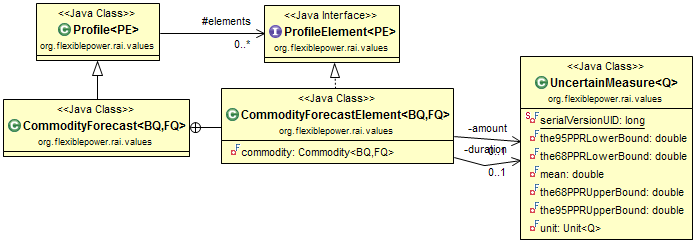
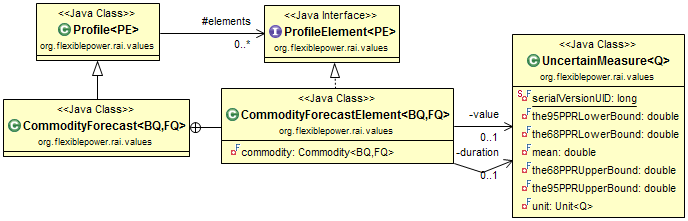
The amount attribute in the CommodityForecastElement class is renamed to value and its type is changed from BQ to FQ.

diff --git a/flexiblepower.api/src/org/flexiblepower/rai/values/CommodityForecast.java b/flexiblepower.api/src/org/flexiblepower/rai/values/CommodityForecast.java
@@ -4,7 +4,6 @@ import java.util.ArrayList;
 import java.util.List;
 
 import javax.measure.Measurable;
-import javax.measure.Measure;
 import javax.measure.quantity.Duration;
 import javax.measure.quantity.Energy;
 import javax.measure.quantity.Power;
@@ -43,7 +42,7 @@ public class CommodityForecast<BQ extends Quantity, FQ extends Quantity> extends
 
         private final List<CommodityForecastElement<BQ, FQ>> elements;
         private UncertainMeasure<Duration> duration;
-        private Unit<BQ> unit;
+        private Unit<FQ> unit;
 
         public Builder(Commodity<BQ, FQ> commodity) {
             this.commodity = commodity;
@@ -55,21 +54,21 @@ public class CommodityForecast<BQ extends Quantity, FQ extends Quantity> extends
             return this;
         }
 
-        public Builder<BQ, FQ> setUnit(Unit<BQ> unit) {
+        public Builder<BQ, FQ> setUnit(Unit<FQ> unit) {
             this.unit = unit;
             return this;
         }
 
-        public Builder<BQ, FQ> add(UncertainMeasure<Duration> duration, UncertainMeasure<BQ> amount) {
-            elements.add(new CommodityForecastElement<BQ, FQ>(commodity, duration, amount));
+        public Builder<BQ, FQ> add(UncertainMeasure<Duration> duration, UncertainMeasure<FQ> value) {
+            elements.add(new CommodityForecastElement<BQ, FQ>(commodity, duration, value));
             return this;
         }
 
-        public Builder<BQ, FQ> add(UncertainMeasure<BQ> amount) {
+        public Builder<BQ, FQ> add(UncertainMeasure<FQ> value) {
             if (duration == null) {
                 throw new IllegalStateException("duration not set");
             }
-            elements.add(new CommodityForecastElement<BQ, FQ>(commodity, duration, amount));
+            elements.add(new CommodityForecastElement<BQ, FQ>(commodity, duration, value));
             return this;
         }
 
@@ -81,7 +80,7 @@ public class CommodityForecast<BQ extends Quantity, FQ extends Quantity> extends
             }
             elements.add(new CommodityForecastElement<BQ, FQ>(commodity,
                                                               duration,
-                                                              new UncertainMeasure<BQ>(mean, standardDeviation, unit)));
+                                                              new UncertainMeasure<FQ>(mean, standardDeviation, unit)));
             return this;
         }
 
@@ -100,15 +99,15 @@ public class CommodityForecast<BQ extends Quantity, FQ extends Quantity> extends
 
         private final Commodity<BQ, FQ> commodity;
         private final UncertainMeasure<Duration> duration;
-        private final UncertainMeasure<BQ> amount;
+        private final UncertainMeasure<FQ> value;
 
         public CommodityForecastElement(Commodity<BQ, FQ> commodity,
                                         UncertainMeasure<Duration> duration,
-                                        UncertainMeasure<BQ> amount) {
+                                        UncertainMeasure<FQ> value) {
             super();
             this.commodity = commodity;
             this.duration = duration;
-            this.amount = amount;
+            this.value = value;
         }
 
         @Override
@@ -126,18 +125,8 @@ public class CommodityForecast<BQ extends Quantity, FQ extends Quantity> extends
             return commodity;
         }
 
-        public UncertainMeasure<BQ> getAmount() {
-            return amount;
-        }
-
-        public Measure<Double, BQ> getExpectedAmount() {
-            return amount.getMean();
-        }
-
-        public Measure<Double, FQ> getExpectedAverage() {
-            double expected = commodity.average(getExpectedAmount(), getDuration())
-                                       .doubleValue(commodity.getFlowUnit());
-            return Measure.valueOf(expected, commodity.getFlowUnit());
+        public UncertainMeasure<FQ> getValue() {
+            return value;
         }
 
         public UncertainMeasure<Duration> getUncertainDuration() {
@@ -176,34 +165,21 @@ public class CommodityForecast<BQ extends Quantity, FQ extends Quantity> extends
         }
         Builder<BQ, FQ> builder = CommodityForecast.create(this.getCommodity());
         for (CommodityForecastElement<BQ, FQ> e : elements) {
-            builder.add(e.getUncertainDuration(), e.getAmount());
+            builder.add(e.getUncertainDuration(), e.getValue());
         }
         for (CommodityForecastElement<BQ, FQ> e : that.elements) {
-            builder.add(e.getUncertainDuration(), e.getAmount());
+            builder.add(e.getUncertainDuration(), e.getValue());
         }
         return builder.build();
     }
 
-    public UncertainMeasure<BQ> getAmountAtOffset(Measurable<Duration> offset) {
+    public UncertainMeasure<FQ> getValueAtOffset(Measurable<Duration> offset) {
         long targetOffset = offset.longValue(SI.MILLI(SI.SECOND));
         long currentOffset = 0;
         for (CommodityForecastElement<BQ, FQ> e : elements) {
             long elementLength = e.getDuration().longValue(SI.MILLI(SI.SECOND));
             if (targetOffset >= currentOffset && targetOffset < targetOffset + elementLength) {
-                return e.getAmount();
-            }
-            currentOffset += elementLength;
-        }
-        return null;
-    }
-
-    public Measurable<FQ> getExpectedAverageAtOffset(Measurable<Duration> offset) {
-        long targetOffset = offset.longValue(SI.MILLI(SI.SECOND));
-        long currentOffset = 0;
-        for (CommodityForecastElement<BQ, FQ> e : elements) {
-            long elementLength = e.getDuration().longValue(SI.MILLI(SI.SECOND));
-            if (targetOffset >= currentOffset && targetOffset < targetOffset + elementLength) {
-                return e.getExpectedAverage();
+                return e.getValue();
             }
             currentOffset += elementLength;
         }
